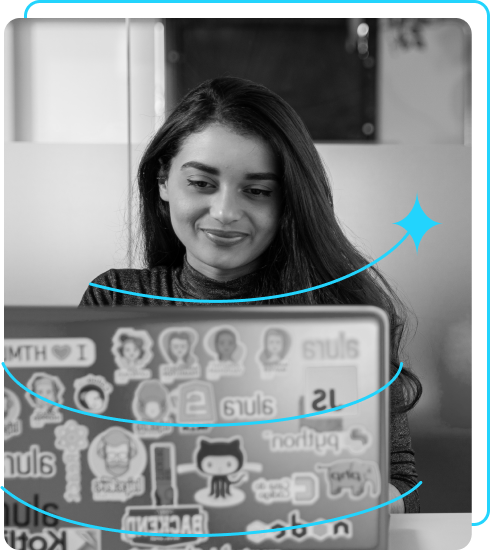
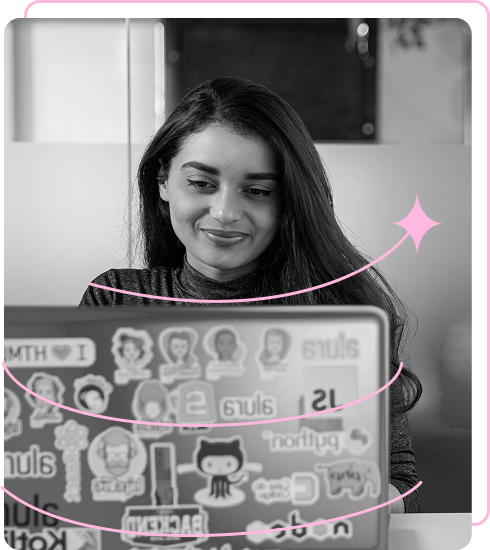
Mudando a paleta de cores

diff --git a/styles/styles.css b/styles/styles.css
@@ -2,10 +2,10 @@
 @import url('https://fonts.googleapis.com/css2?family=Montserrat:ital,wght@0,100..900;1,100..900&display=swap');
 
 :root {
-    --cor-primaria: #000000;
-    --cor-secundaria: #F6F6F6;
-    --cor-terciaria: #22D4FD;
-    --cor-hover: #272727;
+    --cor-primaria: #BE5985;
+    --cor-secundaria: #FFEDFA;
+    --cor-terciaria: #FFB8E0;
+    --cor-hover: #EC7FA9;
 
     --fonte-primaria: "Krona One", sans-serif;
     --fonte-secundaria: "Montserrat";
@@ -17,7 +17,6 @@
 }
 
 body {
-    /* height: 100vh; */
     box-sizing: border-box;
     background-color: var(--cor-primaria);
     color: var(--cor-secundaria);
@@ -89,7 +88,6 @@ body {
 }
 
 .apresentacao__links__botoes {
-    /* background-color: #22D4FD; */
     display: flex;
     width: 378px;
     text-align: center;
